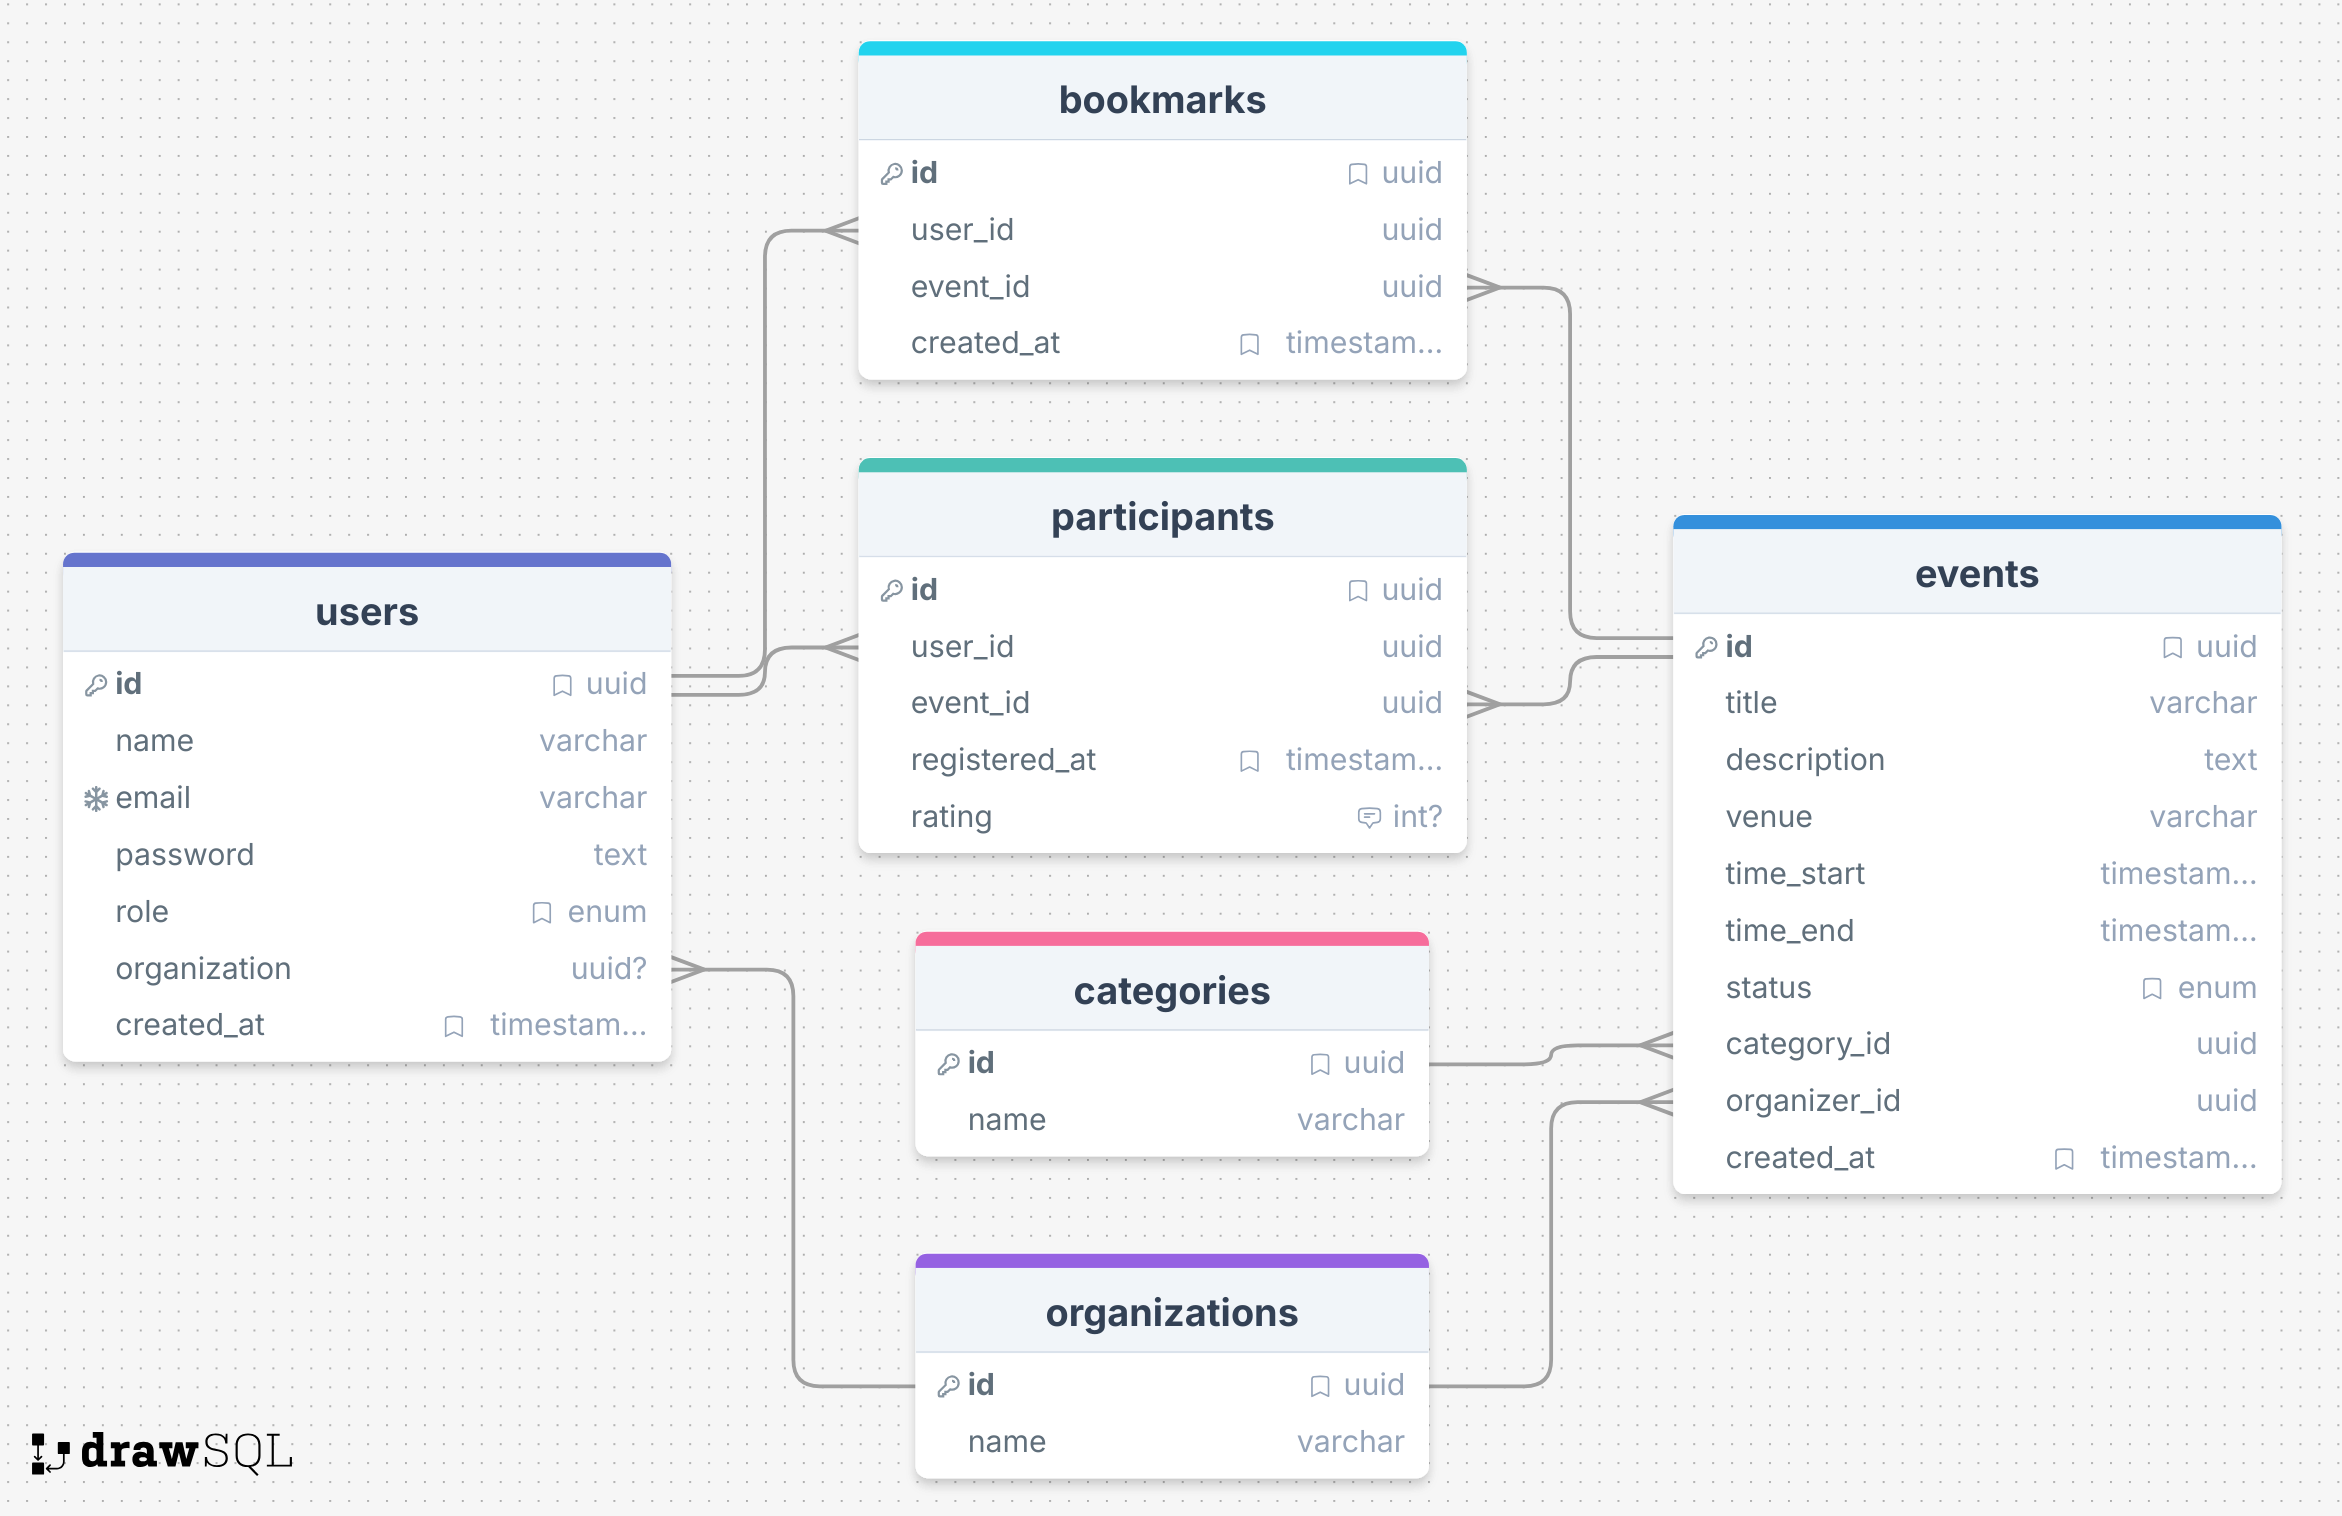
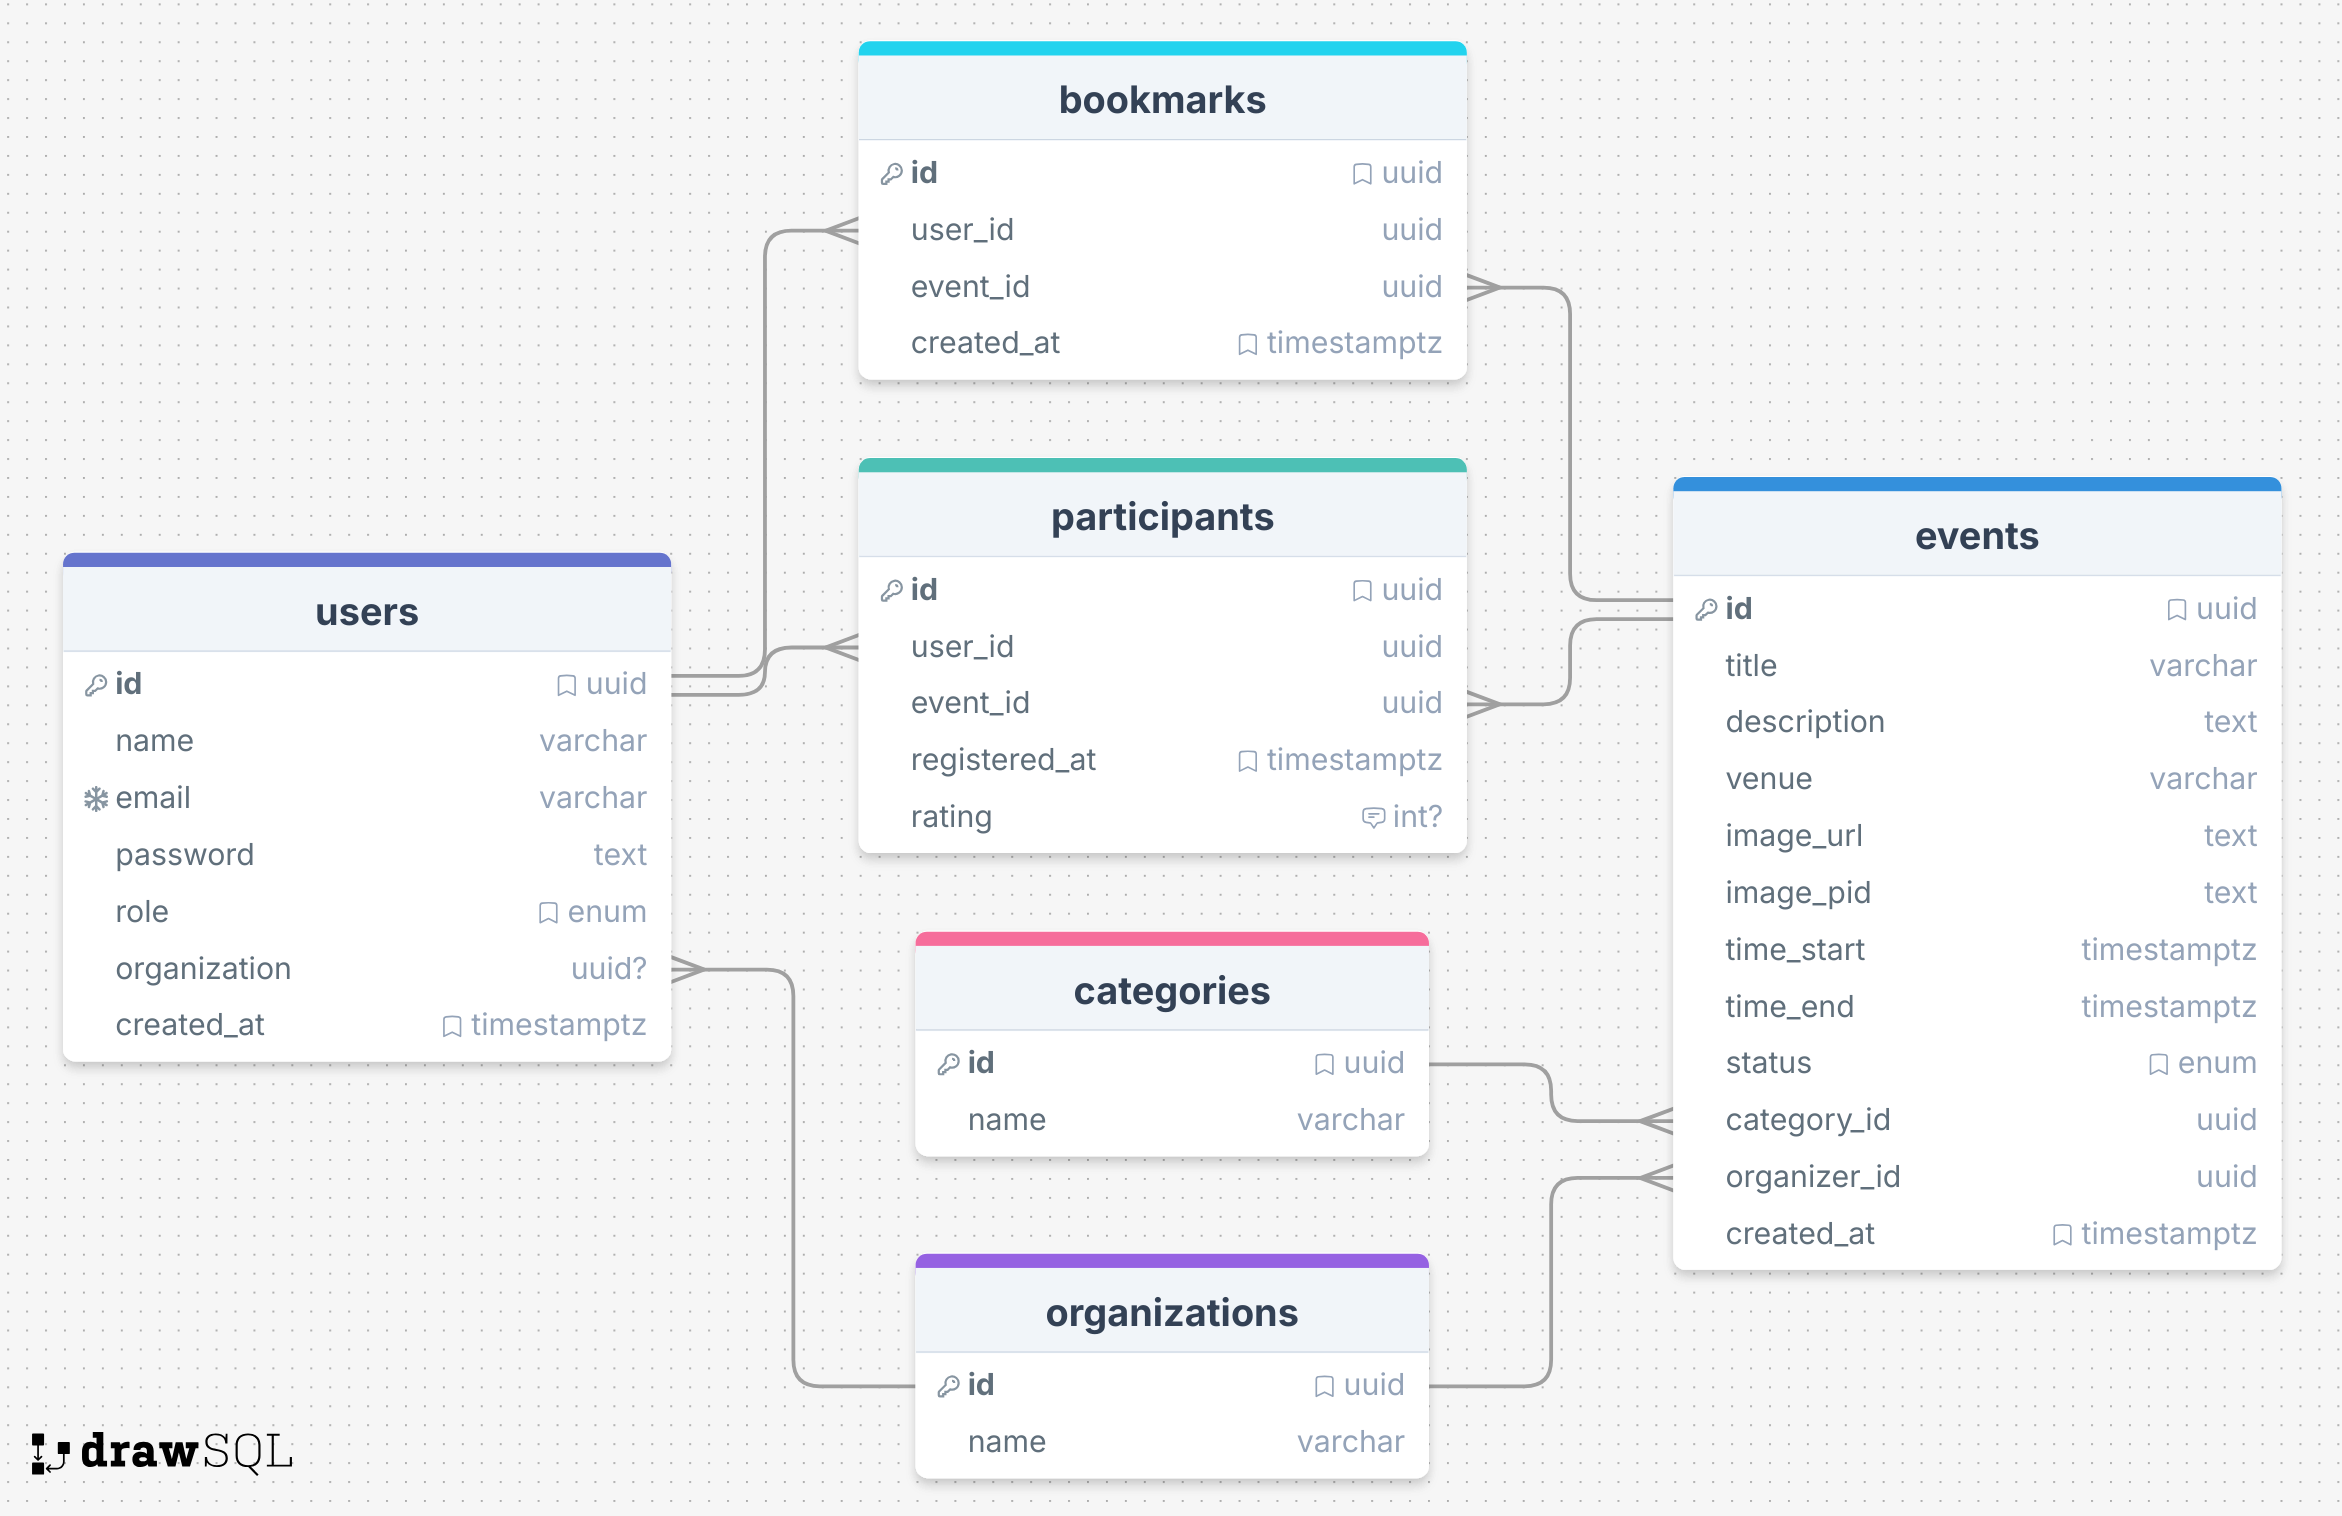
Added cloudinary

diff --git a/UIvent BE/src/repositories/event.repository.js b/UIvent BE/src/repositories/event.repository.js
@@ -1,11 +1,26 @@
 const db = require("../database/pg.database");
+const cloudinary = require('cloudinary').v2;
 
-exports.createEvent = async (datetime, event) => {
+exports.createEvent = async (datetime, event, file) => {
   try {
+    const img = await new Promise((resolve, reject) => {
+        cloudinary.uploader.upload_stream({ resource_type: "image" }, (error, uploadResult) => {
+            if (error) 
+                return reject(error);
+                
+            resolve({
+                image_url: uploadResult.secure_url,
+                public_id: uploadResult.public_id
+            });
+        }).end(file.buffer);
+    });
+
     const res = await db.query(
       `INSERT INTO events (
                 title, 
                 description, 
+                image_url,
+                image_pid,
                 venue, 
                 time_start, 
                 time_end, 
@@ -13,11 +28,13 @@ exports.createEvent = async (datetime, event) => {
                 category_id, 
                 organizer_id
              ) 
-             VALUES ($1, $2, $3, $4, $5, $6, $7, $8) 
+             VALUES ($1, $2, $3, $4, $5, $6, $7, $8, $9, $10) 
              RETURNING *`,
       [
         event.title,
         event.description,
+        img.image_url,
+        img.public_id,
         event.venue,
         datetime.start_datetime,
         datetime.end_datetime,
@@ -82,23 +99,45 @@ exports.getEventsByOrganizer = async (organizer_id) => {
   }
 };
 
-exports.updateEvent = async (id, datetime, event) => {
+exports.updateEvent = async (id, datetime, event, file, oldEvent) => {
   try {
+    const result= await cloudinary.uploader.destroy(oldEvent.image_pid, {
+        resource_type: "image"
+    });
+
+    console.log(result);
+    
+    const img = await new Promise((resolve, reject) => {
+        cloudinary.uploader.upload_stream({ resource_type: "image" }, (error, uploadResult) => {
+            if (error) 
+                return reject(error);
+                
+            resolve({
+                image_url: uploadResult.secure_url,
+                public_id: uploadResult.public_id
+            });
+        }).end(file.buffer);
+    });
+
     const res = await db.query(
       `UPDATE events 
              SET title = $1, 
-                 description = $2, 
-                 venue = $3, 
-                 time_start = $4, 
-                 time_end = $5, 
-                 status = $6, 
-                 category_id = $7, 
-                 organizer_id = $8
-             WHERE id = $9
+                 description = $2,
+                 image_url = $3,
+                 image_pid = $4, 
+                 venue = $5,  
+                 time_start = $6, 
+                 time_end = $7, 
+                 status = $8, 
+                 category_id = $9, 
+                 organizer_id = $10
+             WHERE id = $11
              RETURNING *`,
       [
         event.title,
         event.description,
+        img.image_url,
+        img.public_id,
         event.venue,
         datetime.start_datetime,
         datetime.end_datetime,
@@ -128,6 +167,10 @@ exports.deleteEvent = async (id) => {
     if (!res?.rows[0]) {
       return null;
     }
+
+    await cloudinary.uploader.destroy(res.rows[0].image_pid, {
+        resource_type: "image"
+    });
 
     return res.rows[0];
   } catch (error) {

diff --git a/UIvent BE/src/controllers/event.controller.js b/UIvent BE/src/controllers/event.controller.js
@@ -47,7 +47,8 @@ exports.createEvent = async (req, res) => {
   try {
     const event = await eventRepository.createEvent(
       { start_datetime, end_datetime },
-      req.body
+      req.body,
+      req.file
     );
     return baseResponse(res, true, 201, "Event created successfully", event);
   } catch (error) {
@@ -141,14 +142,14 @@ exports.updateEvent = async (req, res) => {
     );
   }
 
-  let event = await eventRepository.getEventById(req.params.id);
+  const oldEvent = await eventRepository.getEventById(req.params.id);
 
-  if (!event) {
+  if (!oldEvent) {
     return baseResponse(res, false, 404, "Event not found", null);
   }
 
   if (
-    event.organizer_id !== req.user.organization &&
+    oldEvent.organizer_id !== req.user.organization &&
     req.user.role !== "admin"
   ) {
     return baseResponse(
@@ -166,10 +167,12 @@ exports.updateEvent = async (req, res) => {
   const end_datetime = `${end_date}T${end_time}:00Z`;
 
   try {
-    event = await eventRepository.updateEvent(
+    const event = await eventRepository.updateEvent(
       req.params.id,
       { start_datetime, end_datetime },
-      req.body
+      req.body,
+      req.file,
+      oldEvent
     );
     return baseResponse(res, true, 200, "Event updated successfully", event);
   } catch (error) {

diff --git a/UIvent BE/src/routes/event.route.js b/UIvent BE/src/routes/event.route.js
@@ -1,13 +1,17 @@
 const eventController = require("../controllers/event.controller");
 const { authenticate, authorize } = require('../middleware/auth.middleware');
 const express = require('express');
+const multer = require('multer');
 const router = express.Router();
 
-router.post('/', authenticate, authorize("org", "admin"), eventController.createEvent);
+const storage = multer.memoryStorage();
+const upload = multer({ storage: storage });
+
+router.post('/', authenticate, authorize("org", "admin"), upload.single("image"), eventController.createEvent);
 router.get('/', eventController.getAllEvents);
 router.get('/:id', eventController.getEventById);
 router.get('/orgs/:organizationId', eventController.getEventsByOrganizer);
-router.put('/:id', authenticate, authorize("org", "admin"), eventController.updateEvent);
+router.put('/:id', authenticate, authorize("org", "admin"), upload.single("image"), eventController.updateEvent);
 router.delete('/:id', authenticate, authorize("org", "admin"), eventController.deleteEvent);
 
 module.exports = router;

diff --git a/README.md b/README.md
@@ -27,7 +27,7 @@ UIvent adalah platform berbasis web untuk manajemen dan dokumentasi program kerj
 
 ## 💻 Tech Stack:
 
-![Postgres](https://img.shields.io/badge/postgres-%23316192.svg?style=for-the-badge&logo=postgresql&logoColor=white) ![JavaScript](https://img.shields.io/badge/javascript-%23323330.svg?style=for-the-badge&logo=javascript&logoColor=%23F7DF1E) ![NodeJS](https://img.shields.io/badge/node.js-6DA55F?style=for-the-badge&logo=node.js&logoColor=white) ![Express.js](https://img.shields.io/badge/express.js-%23404d59.svg?style=for-the-badge&logo=express&logoColor=%2361DAFB) ![JWT](https://img.shields.io/badge/JWT-black?style=for-the-badge&logo=JSON%20web%20tokens) ![NPM](https://img.shields.io/badge/NPM-%23000000.svg?style=for-the-badge&logo=npm&logoColor=white) ![React](https://img.shields.io/badge/react-%2320232a.svg?style=for-the-badge&logo=react&logoColor=%2361DAFB) ![Vite](https://img.shields.io/badge/vite-%23646CFF.svg?style=for-the-badge&logo=vite&logoColor=white) ![TailwindCSS](https://img.shields.io/badge/tailwindcss-%2338B2AC.svg?style=for-the-badge&logo=tailwind-css&logoColor=white) 
+![Postgres](https://img.shields.io/badge/postgres-%23316192.svg?style=for-the-badge&logo=postgresql&logoColor=white) ![JavaScript](https://img.shields.io/badge/javascript-%23323330.svg?style=for-the-badge&logo=javascript&logoColor=%23F7DF1E) ![NodeJS](https://img.shields.io/badge/node.js-6DA55F?style=for-the-badge&logo=node.js&logoColor=white) ![Express.js](https://img.shields.io/badge/express.js-%23404d59.svg?style=for-the-badge&logo=express&logoColor=%2361DAFB) ![JWT](https://img.shields.io/badge/JWT-black?style=for-the-badge&logo=JSON%20web%20tokens) ![NPM](https://img.shields.io/badge/NPM-%23000000.svg?style=for-the-badge&logo=npm&logoColor=white) ![Cloudinary](https://img.shields.io/badge/Cloudinary-%231563FF.svg?style=for-the-badge&logo=cloud&logoColor=white) ![React](https://img.shields.io/badge/react-%2320232a.svg?style=for-the-badge&logo=react&logoColor=%2361DAFB) ![Vite](https://img.shields.io/badge/vite-%23646CFF.svg?style=for-the-badge&logo=vite&logoColor=white) ![TailwindCSS](https://img.shields.io/badge/tailwindcss-%2338B2AC.svg?style=for-the-badge&logo=tailwind-css&logoColor=white) 
 
 ## 📊 Diagram
 
@@ -77,6 +77,7 @@ git clone https://github.com/aryawiandra/UIvent.git
   PG_CONNECTION_URL=postgres://your-username:your-password@localhost:5432/db_name
   JWT_SECRET=your_jwt_secret_key
   JWT_EXPIRES_IN=expire_time_if_needed
+  CLOUDINARY_URL=cloudinary://api_key:api_secret@cloud_name
   ```
 
 - To test installation result, run:
